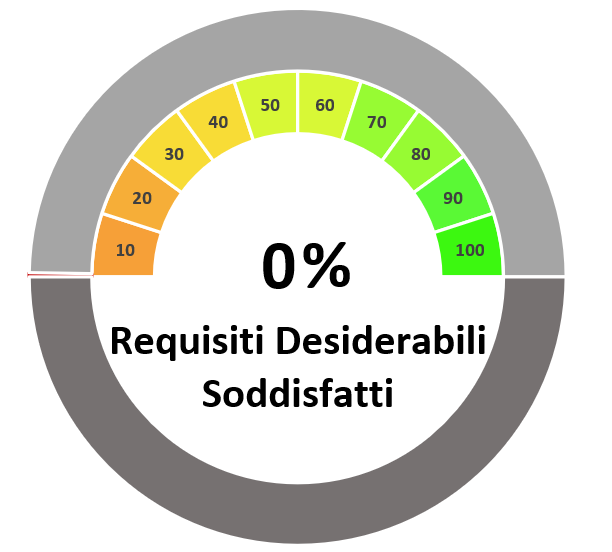
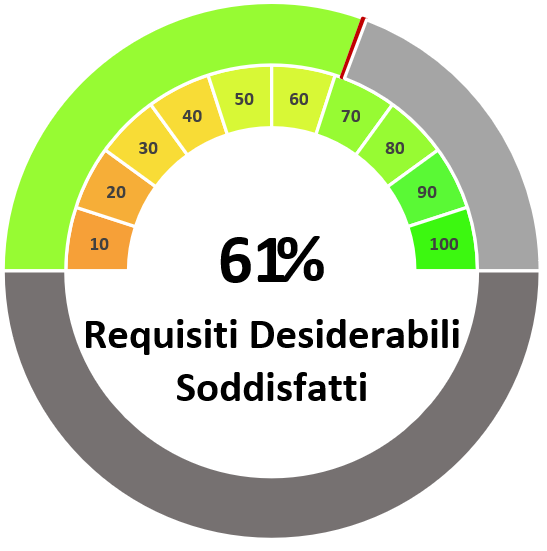
Aggiornamento cruscotto (#253)

diff --git a/3-PB/Documentazione_esterna/Piano_di_qualifica/cruscotto.tex b/3-PB/Documentazione_esterna/Piano_di_qualifica/cruscotto.tex
@@ -105,8 +105,7 @@ Come osservabile dai valori riportati dal grafico, l'ampia analisi dei rischi ef
     \end{minipage}
 \end{figure}
 \subsection{Analisi}
-Il progetto fino ad ora ha prodotto un Proof of Concept, dunque nessun prodotto finale con il quale soddisfare alcun requisito.\\Per questo motivo è normale che nel cruscotto non risulti soddisfatto nessun requisito.
-
+Il progetto ha prodotto un Minimum Viable Product, dunque soddisfa tutti i requisiti obbligatori. Il gruppo si è inoltre dedicato a implementare anche alcuni dei requisiti desiderabili e opzionali concordati con l'azienda. La decisione di soddisfare alcuni requisiti opzionali rispetto a completare quelli desiderabili, nonostante essi siano di minor rilievo, è data dalla ridotta quantità di risorse che questi richiedevano per essere soddisfatti.
 \section{Indice di Gulpease}
 \begin{figure}[H]
     \centering
@@ -144,3 +143,12 @@ Il progetto fino ad ora ha prodotto un Proof of Concept, dunque nessun prodotto 
 \subsection{Analisi}
 Analizzando i valori del cruscotto, è immediato notare che l'indice di ogni verbale è sempre stato superiore alla soglia di accettabilità. È inoltre utile notare che la maggior parte degli indici di Gulpease più bassi sono stati registrati in verbali esterni, mostrando come la natura più discorsiva di tali verbali mette a rischio maggiormente la leggibilità dei documenti.\\
 L'elevata variabilità dei valori tra un documento e l'altro certifica la difficoltà nel migliorare tale metrica di qualità. Per questo motivo, è importante in futuro continuare a prestare attenzione alla struttura dei periodi delle frasi, in quanto un calo di attenzione porterebbe l'indice di un documento a non rispettare il valore di accettabilità.
+
+\section{Code coverage}
+\begin{figure}[H]
+    \centering
+    \includegraphics[width=0.45\linewidth]{codecoverage.png}
+    \caption{Code coverage}
+\end{figure}
+\subsection{Analisi}
+Il gruppo ha codificato i test di unità e di integrazione per tutte le classi del back-end e per buona parte dei componenti del front-end. I test realizzati sono stati tutti superati dall'applicazione e attraverso gli strumenti di code coverage integrati nell'ambiente di test è stato possibile raggiungere una percentuale del 84.6\%, che rispetta i valori minimi autoimposti. 

diff --git a/3-PB/Documentazione_esterna/Piano_di_qualifica/frontespizio.tex b/3-PB/Documentazione_esterna/Piano_di_qualifica/frontespizio.tex
@@ -9,6 +9,6 @@
         \node [draw,white,text=black, below=of uni] (corso1) {\fontsize{28pt}{32pt}\selectfont Corso di Ingegneria};
         \node [yshift=0.75cm,draw,white,text=black, below=of corso1] (corso2) {\fontsize{28pt}{32pt}\selectfont del Software};
         \node [xshift=3.5cm,yshift=7cm,draw,white,text=black] (riunione) at (current page.south){\fontsize{40pt}{48pt}\selectfont Piano di qualifica};
-        \node [draw,white,text=black, below=of riunione] (versione) {\fontsize{28pt}{32pt}\selectfont Versione 1.6};
+        \node [draw,white,text=black, below=of riunione] (versione) {\fontsize{28pt}{32pt}\selectfont Versione 1.7};
     \end{tikzpicture}
 \end{titlepage}

diff --git a/3-PB/Documentazione_esterna/Piano_di_qualifica/log.tex b/3-PB/Documentazione_esterna/Piano_di_qualifica/log.tex
@@ -12,6 +12,8 @@
     \rowcolor{headerrow} \textbf{\textcolor{white}{Versione}} & \textbf{\textcolor{white}{Data}} & \textbf{\textcolor{white}{Autori}} & \textbf{\textcolor{white}{Verificatori}} & \textbf{\textcolor{white}{Descrizione}} \\
     \endhead
     \hline
+    1.7 & 2024/04/02 & Leonardo Lago & Andrea Cecchin & Aggiornamento sezione \ref{sec:cruscotto}.\\
+    \hline
     1.6 & 2024/03/30 & Andrea Cecchin & Francesco Ferraioli & Aggiornamento sezione \ref{sec:test}.\\
     \hline
     1.5 & 2024/03/26 & Marco Dolzan & Leonardo Lago & Aggiornamento sezione \ref{sec:test}.\\
